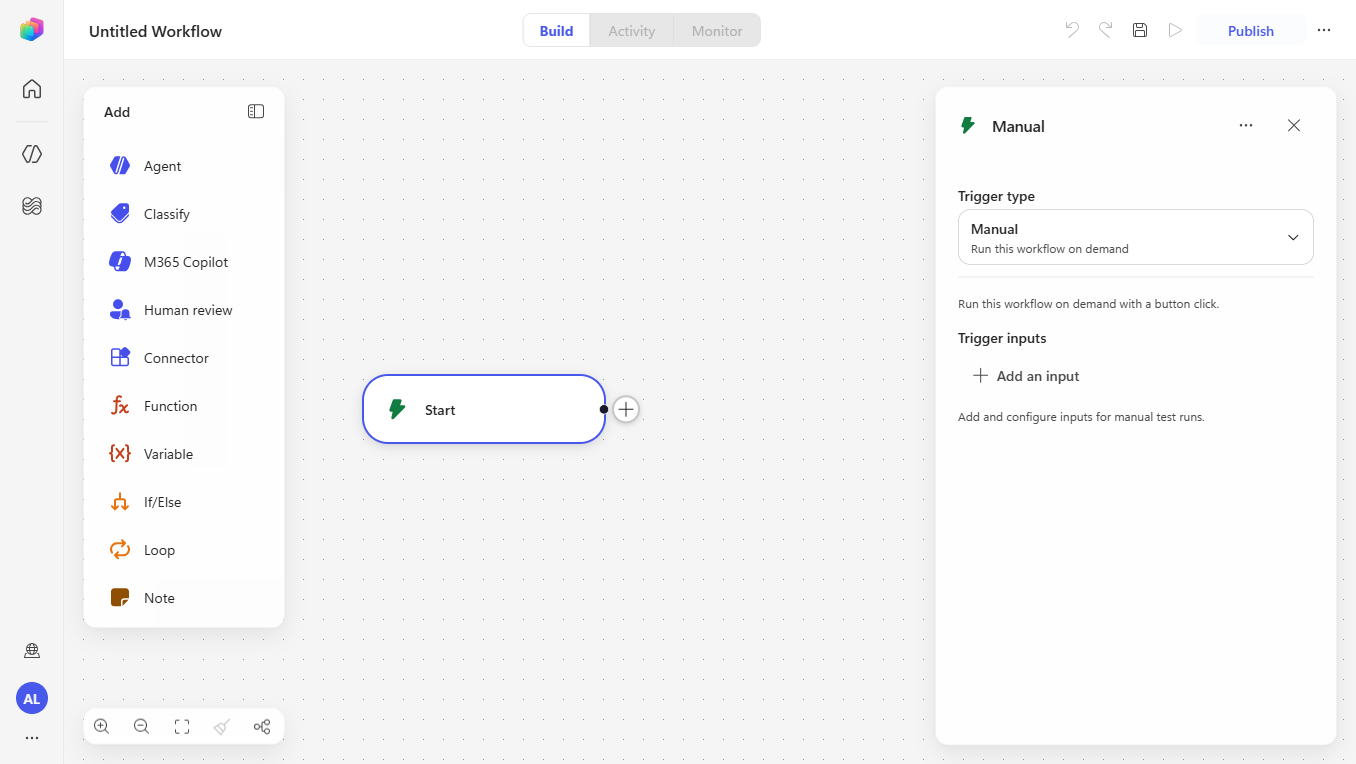
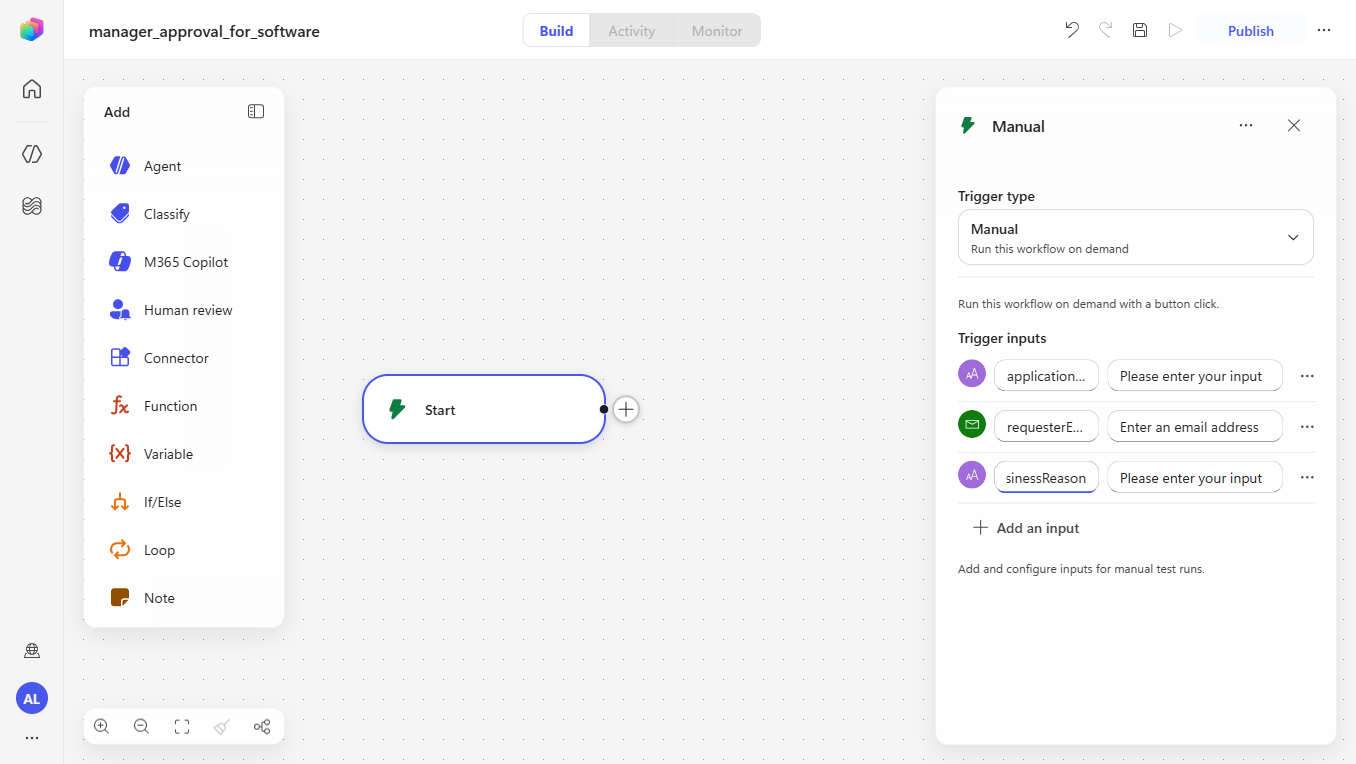
docs(course): Lab 9.1 — real manager_approval_for_software workflow screenshot
Replace the empty "Untitled Workflow" capture with the real scenario: the
workflow named manager_approval_for_software, the Start trigger configured with
the applicationName / requesterEmail / businessReason inputs, and the action
palette. Update the caption to match.

diff --git a/docs/modules/09-automate-with-agent-flows/index.md b/docs/modules/09-automate-with-agent-flows/index.md
@@ -54,7 +54,7 @@ A **Workflow** is the new flows format in Copilot Studio, with a revamped visual
    manager_approval_for_software
    ```
 
-![New workflow designer — Start trigger, the Add palette (Agent, Classify, M365 Copilot, Human review, Connector, If/Else, Loop), and the trigger config panel](/screenshots/09/01_workflow-designer.png)
+![Workflow designer — the workflow named manager_approval_for_software, the Start trigger with applicationName, requesterEmail, and businessReason inputs, and the Add palette (Agent, Classify, M365 Copilot, Human review, Connector, If/Else, Loop)](/screenshots/09/01_workflow-designer.png)
 
 ---
 
